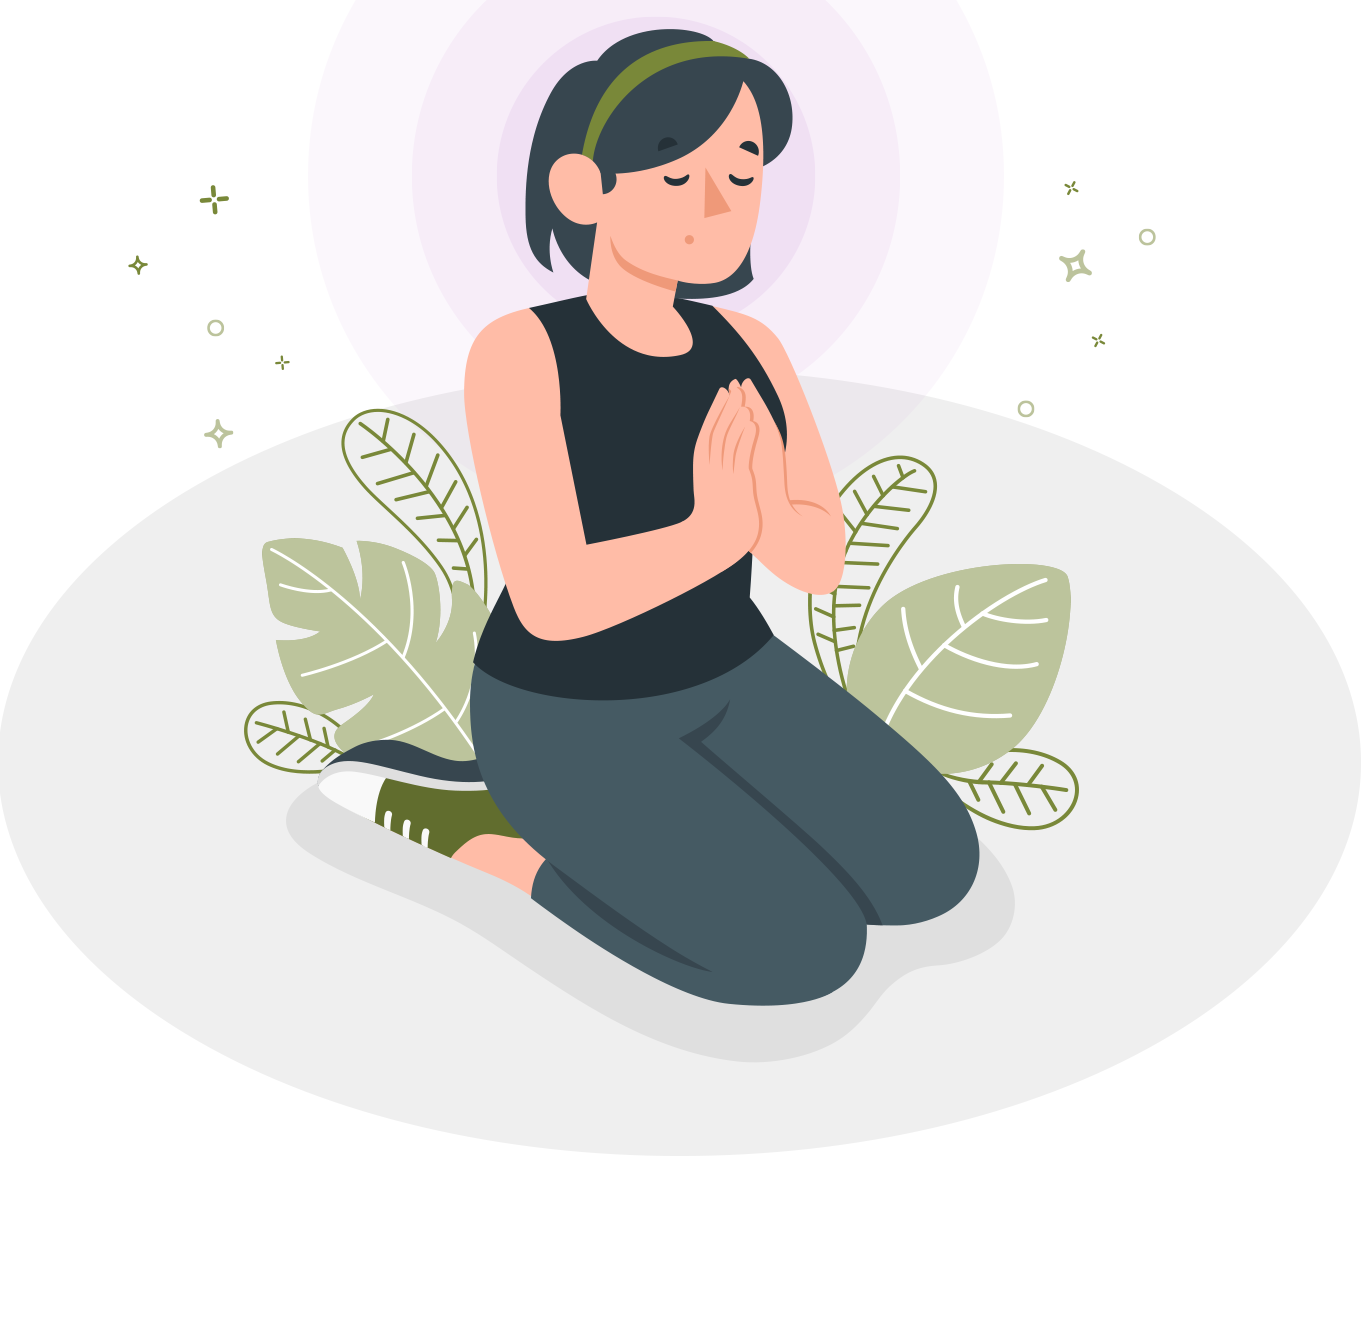
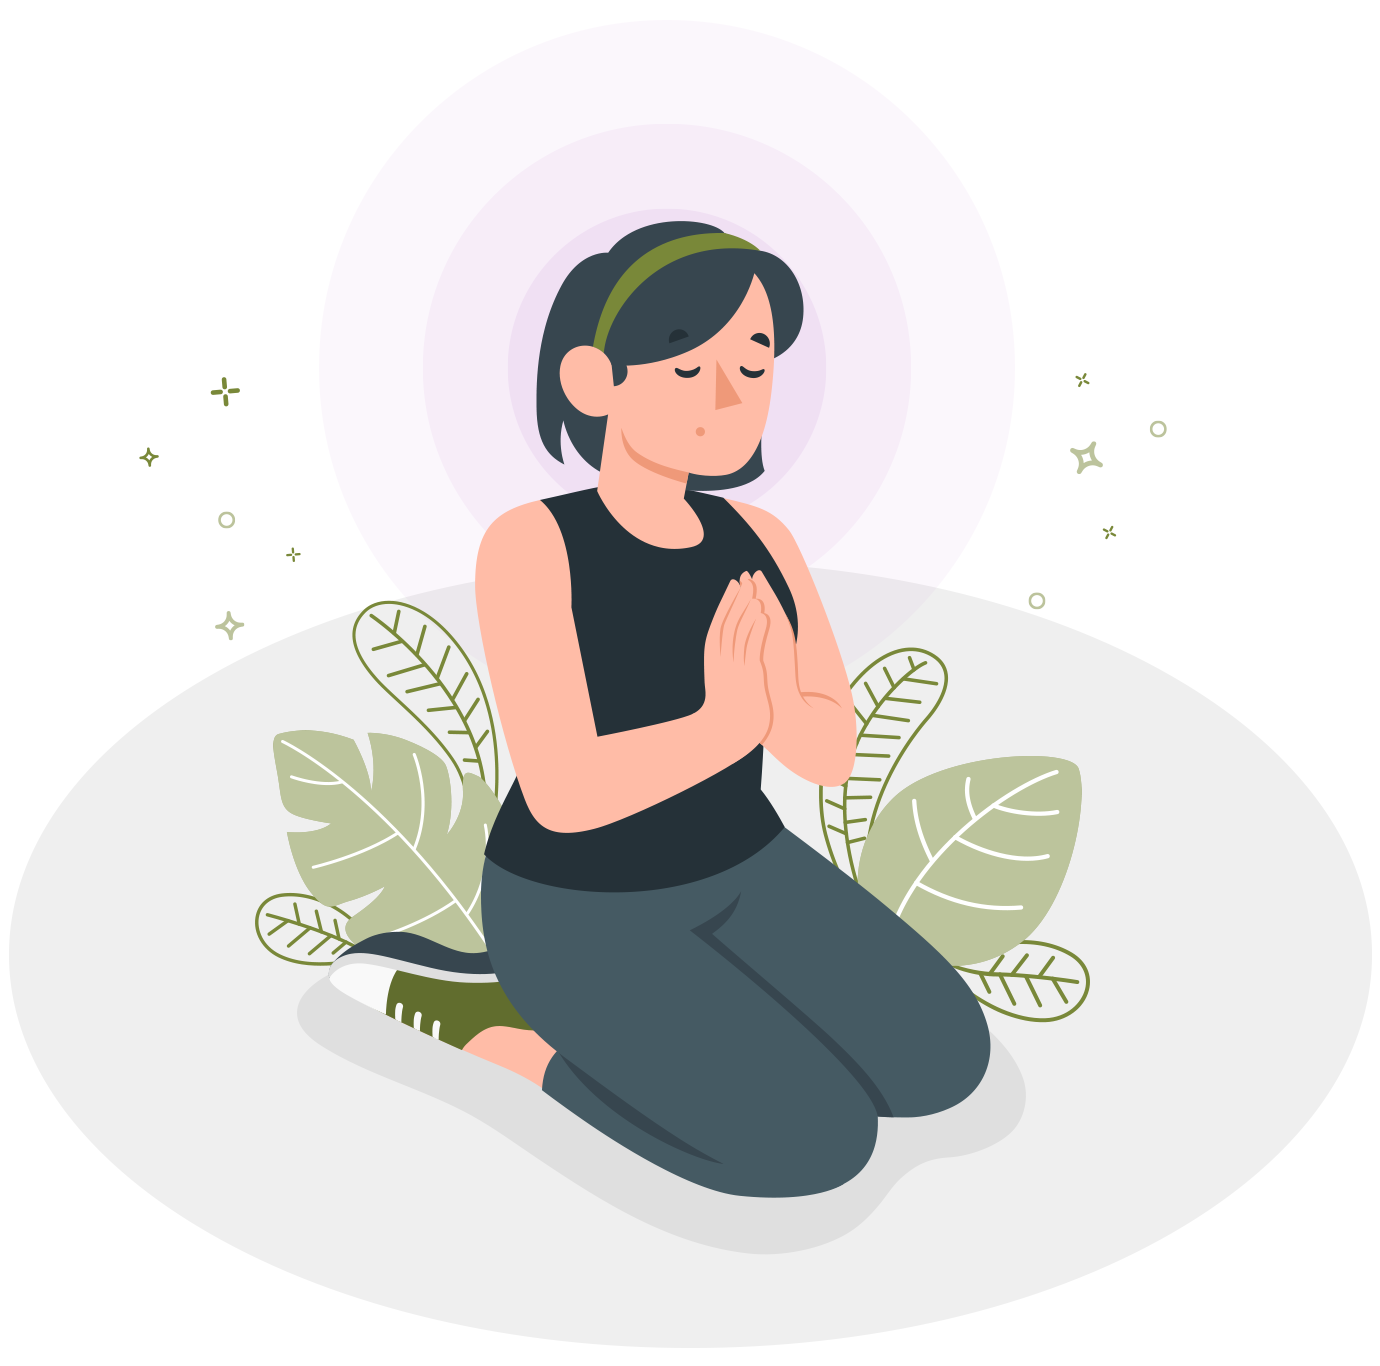
Update image of get started page

diff --git a/lib/ui/pre_auth_pages/get_stated_screen.dart b/lib/ui/pre_auth_pages/get_stated_screen.dart
@@ -68,7 +68,7 @@ class GetStartedScreen extends StatelessWidget {
       child: Center(
         child: Image.asset(
           AssetConstants.GIRL_SITTING,
-          fit: BoxFit.contain,
+          fit: BoxFit.cover,
         ),
       ),
     );
